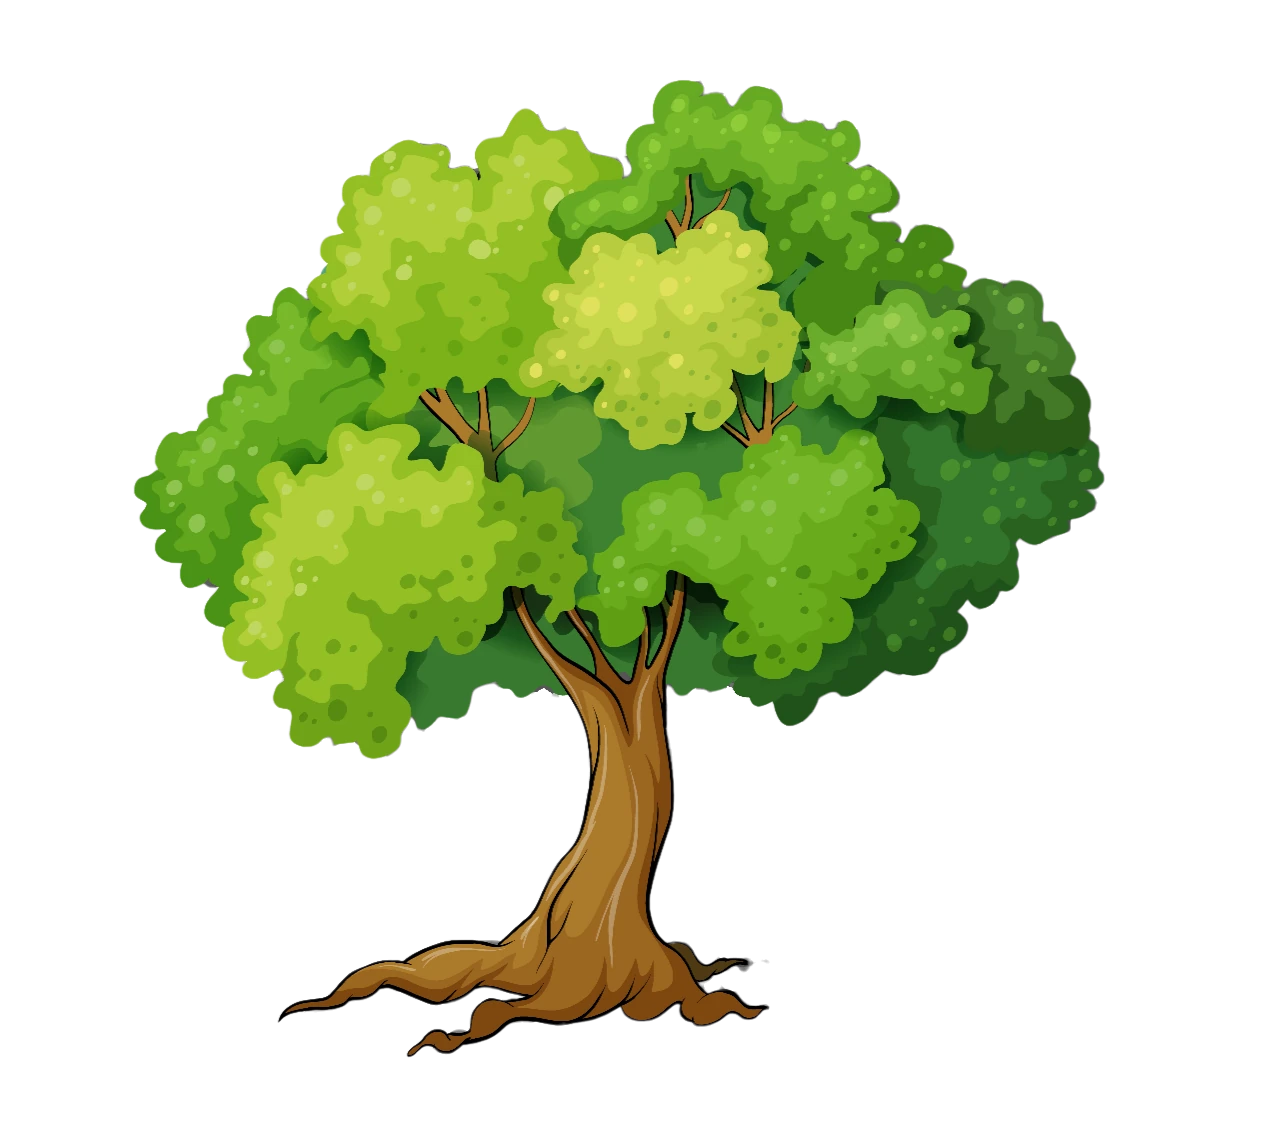
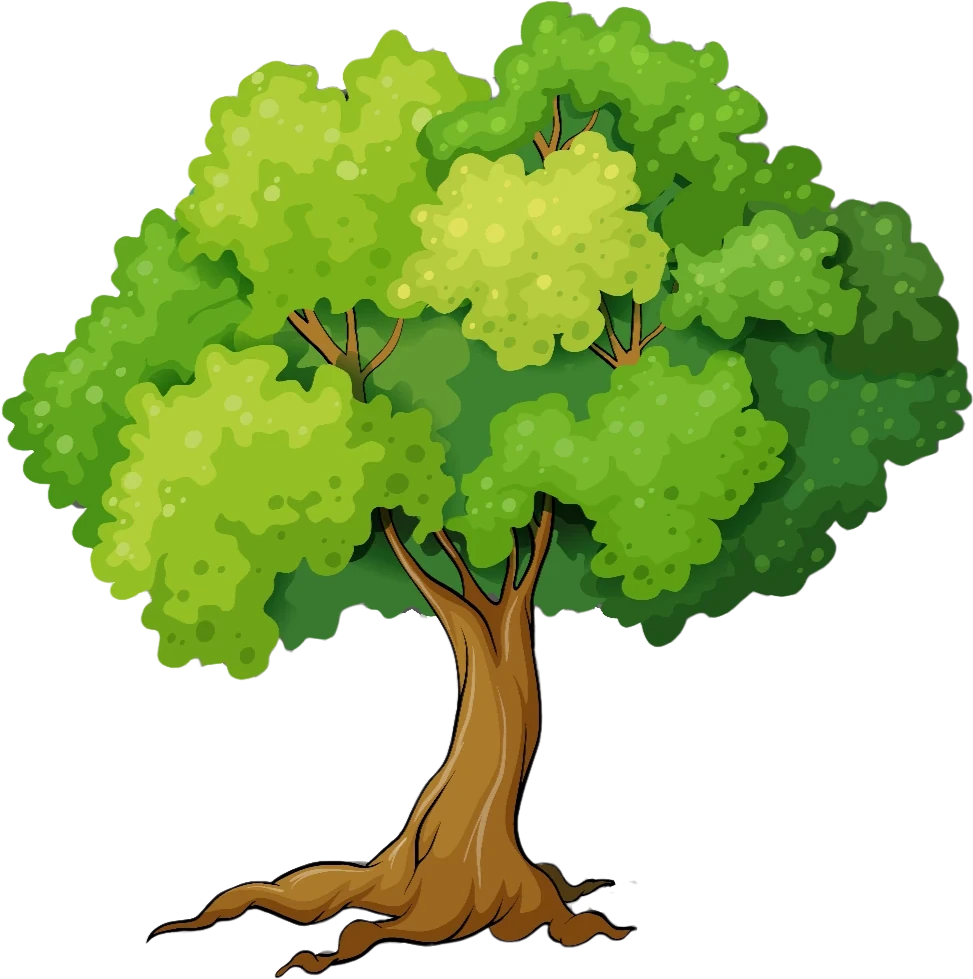
Small styling changes

diff --git a/style.css b/style.css
@@ -85,29 +85,6 @@ body {
         transform: rotate(-1.72deg);
         filter: drop-shadow(1px 2px 3px hsla(0, 0%, 0%, 0.75));
     }
-
-    >.title-container {
-        max-height: fit-content;
-        min-width: 310px;
-        max-width: 448px;
-        /* margin: 8em 2em 2em 2em; */
-        margin-inline: 2em;
-        margin-block: 1em;
-        padding: 1em 0.2em;
-        background-color: hsl(60 36% 50%);
-        transform: rotate(-1.72deg);
-        border-radius: 29px;
-        box-shadow: 3px 2px 4px hsla(0, 0%, 0%, 0.25);
-
-        >.title {
-            font-family: SunnySpells;
-            font-size: clamp(4rem, 3.6479rem + 1.5023vw, 5rem);
-            text-shadow: 1px 2px 3px hsla(0, 0%, 0%, 0.75);
-            text-align: center;
-            line-height: 90%;
-            color: var(--arylideYellow100);
-        }
-    }
 }
 
 .sign-container {
@@ -142,7 +119,7 @@ body {
         text-decoration: none;
         font-size: 50px;
         font-family: SunnySpells;
-        text-shadow: 1px 4px 0 hsl(13 18% 48%);
+        text-shadow: 2px 3px 3px hsla(0, 0%, 0%, 0.5);
     }
 
     #button1 {
@@ -200,7 +177,8 @@ body {
     height: 100%;
     z-index: -1;
     justify-self: center;
-    transform: translateY(13%);
+    translate: 0% 8%;
+    filter: drop-shadow(3px 2px 4px hsla(0, 0%, 0%, 0.25));
 
     @media screen and (max-width: 600px) {
         display: none;
@@ -214,6 +192,7 @@ body {
 
 .tree-right {
     grid-area: Right-tree;
+    z-index: -2;
 }
 
 /* Events Page */
@@ -384,15 +363,11 @@ body {
     place-self: center;
     margin-bottom: 0.25em;
     margin-top: 0.15em;
-    padding: 0.25em;
+    padding-inline: 2ch;
     text-align: center;
     text-wrap: balance;
-    letter-spacing: 0.03em;
-
-    >p {
-        font-size: clamp(0.75rem, 0.4907rem + 1.1215vw, 1.5rem);
-
-    }
+    letter-spacing: 0.05em;
+    font-size: clamp(0.75rem, 0.1467rem + 2.6087vw, 1.125rem);
 }
 
 .hidden-title {

diff --git a/index.html b/index.html
@@ -13,7 +13,7 @@
     <main>
         <div class="home-screen">
             <div class="title-bar">
-                <img src="Images/ExtDaySumTitle.png" alt="">
+                <img src="Images/ExtDaySumTitle.webp" alt="">
             </div>
             <!-- <div class="title-bar">
                 <div class="title-container">
@@ -35,7 +35,7 @@
                 </ul>
                 <img role="presentation" class="bush2" src="Images/BushesDtL.webp" alt="">
             </nav>
-            <img class="tree-right" src="Images/tree.webp" alt="">
+            <img class="tree-right" src="Images/treeflip.webp" alt="">
         </div>
     </main>
     <footer><a href="https://calivyprep.org/" target="_blank" rel="noopener noreferrer"><img class="cal-ivy-logo" src="Images/CalIvyPrepLogo.png" alt="Logo and title for California Ivy League Prepretory School"></a></footer>
